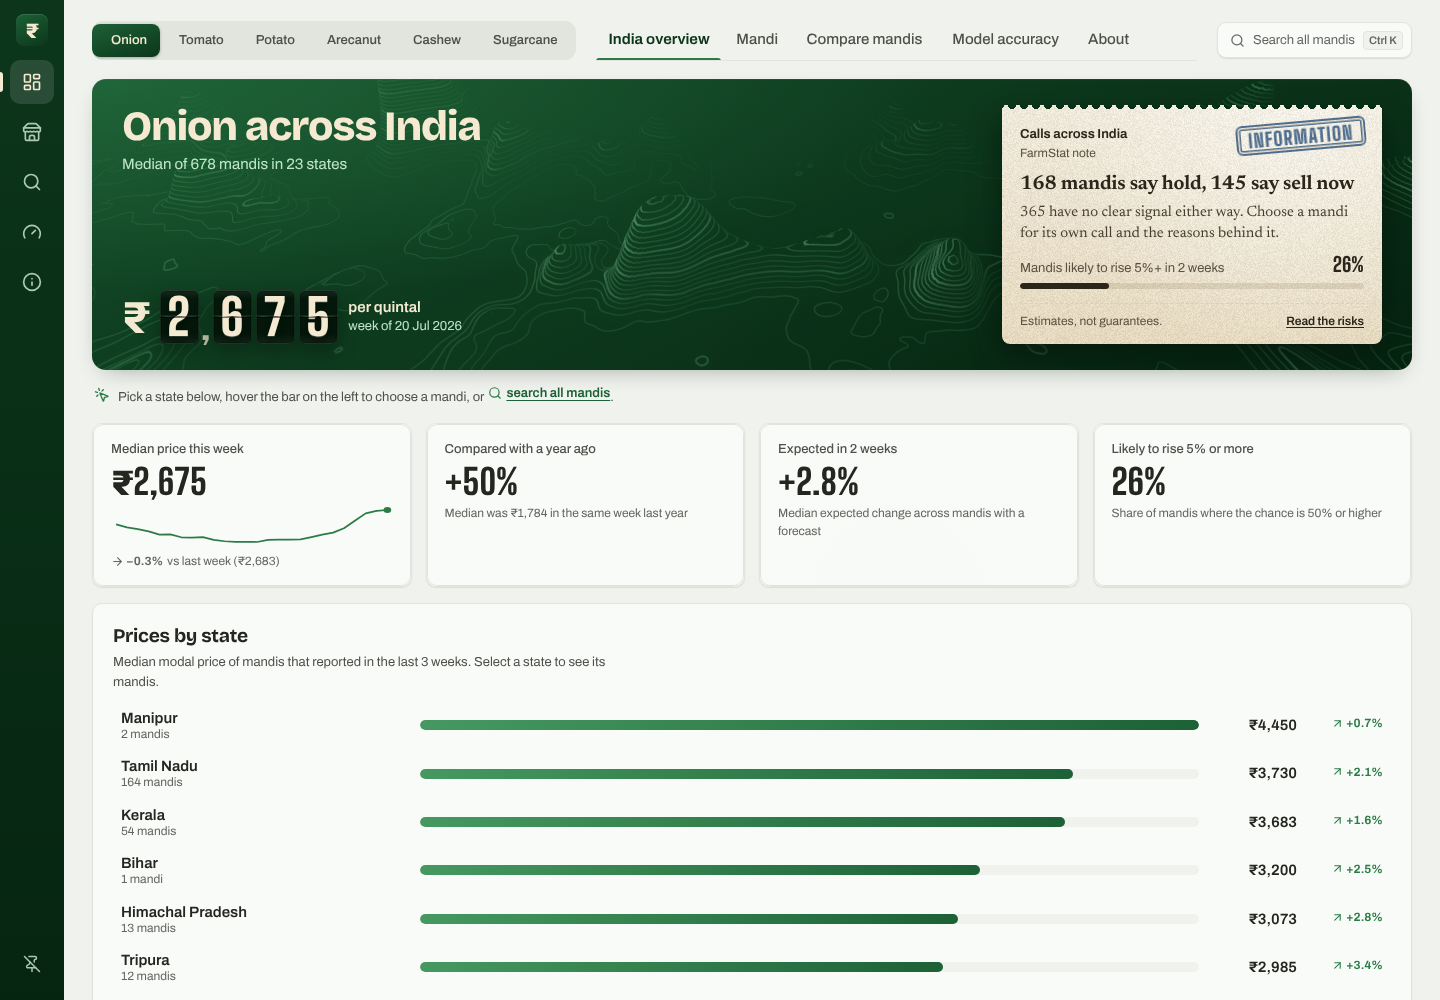
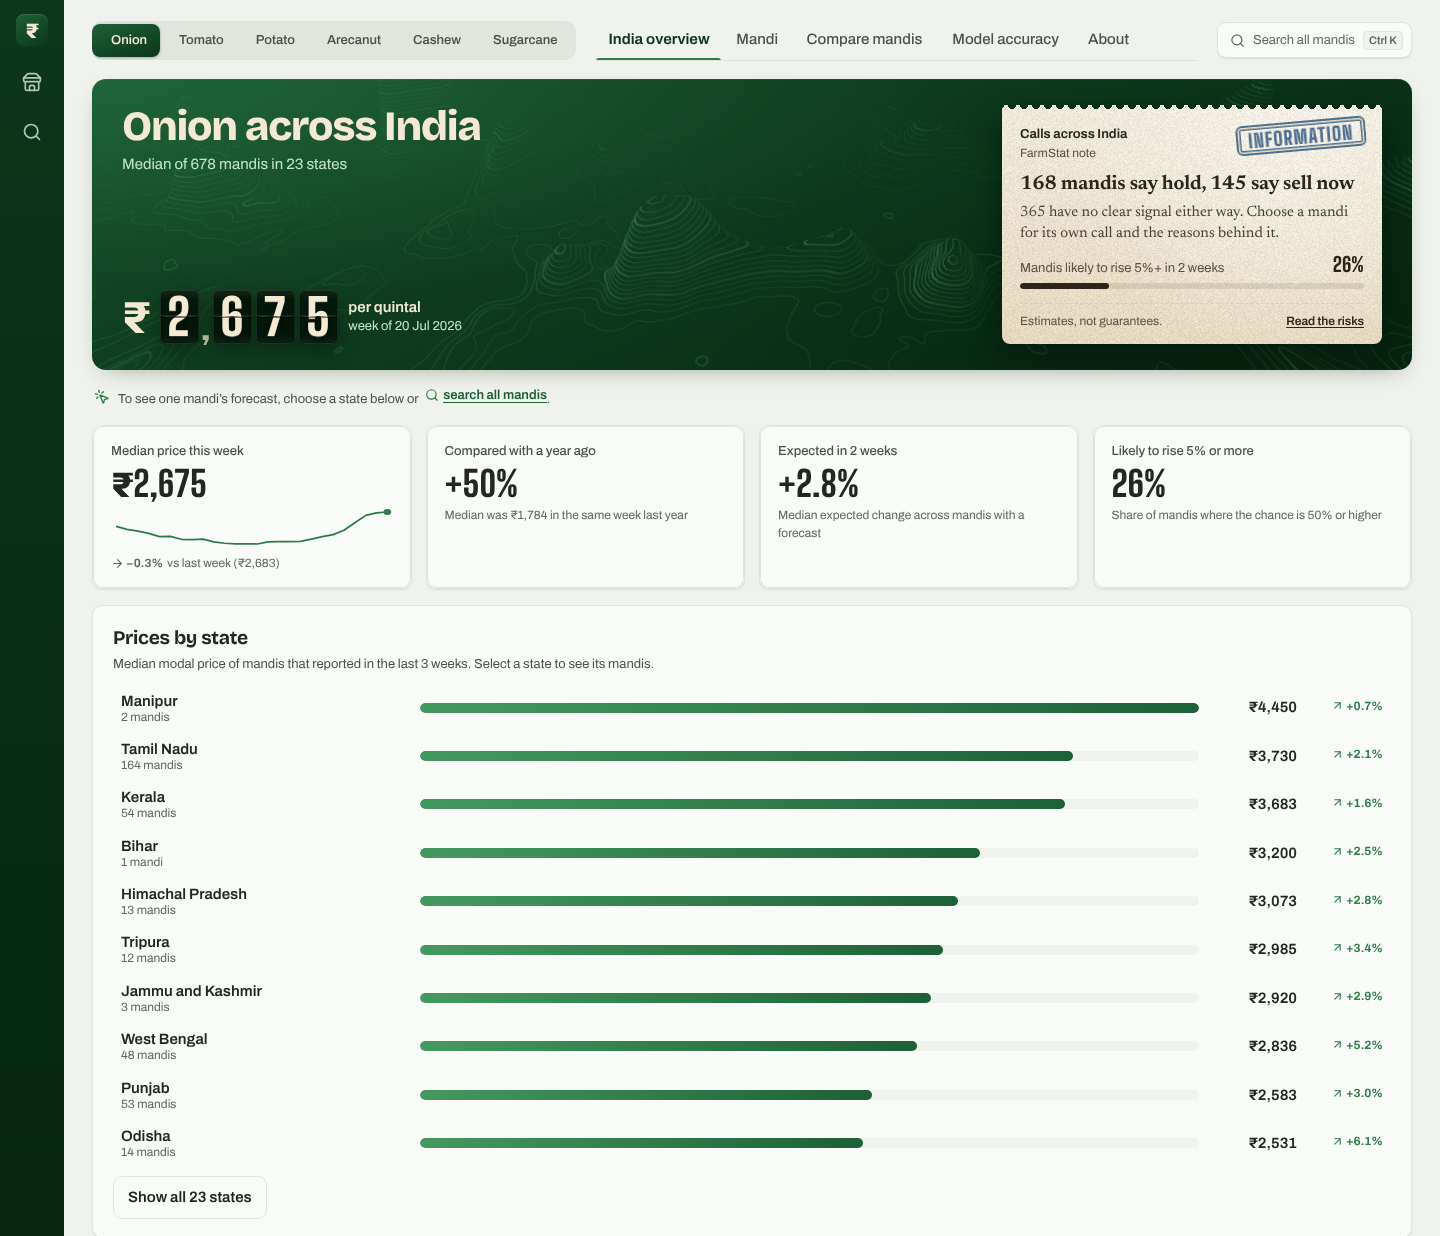
Docs: update README for the latest UI and code changes
- New first-screen screenshot with the two-button rail
- Features and web app sections describe the trimmed rail, panel
  closing, search cancel, Compare and Cashew changes, tidied mandi
  names, the static contour image and the even page layout
- Change the web app: commit web/dist, and a table of where web code lives
- Tech stack lists Ruff, ESLint and CI; architecture lists /api/overview
- Tech debt register notes the web cleanup

diff --git a/README.md b/README.md
@@ -3,7 +3,7 @@
 Forecasts onion, tomato and potato prices in mandis across 24 Indian states, 1, 2 and 4 weeks ahead, tells the farmer whether to sell now or hold, and also covers arecanut, cashew and sugarcane.
 
 <p align="center">
-  <img src="docs/web-overview.png" width="860" alt="FarmStat first screen: onion across India, with the national rate board, calls, KPIs and prices by state">
+  <img src="docs/web-overview.png" width="860" alt="FarmStat first screen: onion across India, with the national rate board, the calls slip, KPI cards and prices by state, beside the two-button side rail">
 </p>
 
 ## CONTENTS
@@ -115,20 +115,28 @@ Finding out *when a model doesn't help*, and saying so, is part of the result.
   Every row is a way in: a state opens its mandi list, a mandi opens its page
 - Pick a crop, a **state** and a **mandi** to see this week's price, the 1/2/4-week forecast and two years of history
   with the forecast range
-- **A side panel that stays out of the way:** on desktop a slim icon rail with just two buttons, the mandi list and search (pages live in the tabs),
-  sits on the left; hovering or focusing it slides out the state picker and mandi list over the page, and the pin
-  button docks it. Ported from a 21st.dev rail-panel sidebar (hover peek with a grace period, Escape and click-outside
-  to close, a sliding active marker, arrow keys). On phones it is a "Choose a mandi" drop-down under the header
+- **A side panel that stays out of the way:** on desktop a slim rail on the left holds just two buttons: the side panel
+  and search (pages are switched with the tabs at the top). Resting the pointer on the rail slides out the state
+  picker and mandi list; passing over it does nothing. The panel closes when the pointer leaves, on a click outside,
+  with <kbd>Esc</kbd> or with its close button, and the pin button docks it beside the page. For cashew the panel lists
+  states, and for sugarcane it explains the FRP. Ported from a 21st.dev rail-panel sidebar. On phones it is a
+  "Choose a mandi" drop-down under the header
 - Sell / hold advice that subtracts storage losses (onion 4%, potato 3%, tomato 15% per 4 weeks)
 - Never advises holding tomatoes for more than a week, because they spoil
 - Shows the money involved for your quantity in quintals
 - Arrivals chart for every mandi
-- Compare tab with every mandi in the chosen state, the median price in each state, and the highest-paying mandis in India
+- **Compare tab:** the spread of prices across the chosen state's mandis (select a dot to highlight a mandi), a sortable
+  table of every mandi whose names open that mandi's page, the median price in each state with the chosen state
+  darker, and the highest-paying mandis in India. With no mandi chosen it names the top-paying mandi and the state median
 - Warning on mandis with less than 3 years of history
 - Accuracy tab with the test results, so users can see how far to trust the forecasts
 - **Arecanut:** every mandi and variety (Rashi, Chali, Bette…), compared only with the same variety
-- **Cashew page:** monthly state price, rough-guide forecast with range, seasonal pattern, all-state comparison
-- **Sugarcane page:** current FRP with the recovery premium rules, and the price history
+- **Cashew page:** opens on every state's latest price, the seasonal pattern and a note that kernels cost several times
+  more than raw nuts; states whose data is out of date are flagged. A state adds its price history and a rough-guide
+  forecast with range
+- **Sugarcane page:** current FRP with the recovery premium rules, and the mandi price against the FRP
+- **Readable mandi names:** Agmarknet names like `Junnar(Alephata)` are shown as "Junnar (Alephata)"; links and
+  searches keep the original name
 
 ## WEB APP
 
@@ -144,14 +152,16 @@ FastAPI service that serves the models.
 - **Search anywhere** (<kbd>Ctrl</kbd>/<kbd>⌘</kbd> <kbd>K</kbd>): one box that finds any of the ~1,400 mandi series in
   India by mandi, district, state or crop, every word matched (`kolar tom` = tomato mandis in Kolar), plus pages; ported
   from a [21st.dev](https://21st.dev) command-palette component, restyled with FarmStat's tokens and animated with CSS.
-  The palette code and the mandi index (18 kB compressed) load the first time it opens
+  It has a clear button and a Cancel button. The palette code and the mandi index (18 kB compressed) load the first
+  time it opens
 - **Tabs with a sliding indicator** for views and chart ranges, ported from a 21st.dev tabs component (arrow, Home and
   End keys, roving focus)
 - **Searchable mandi list** with a 12-week sparkline and expected change for every mandi, sortable by name, price or outlook
 - **Price chart:** history with a soft wash, a shaded forecast zone with the median and likely range, a band showing the
   usual price for the season (10th to 90th percentile of the same weeks in the past 5 years), labelled latest and 4-week
   prices, round axis values, 3M / 6M / 1Y / 2Y / 5Y ranges, an optional "same weeks last year" line, gaps in reporting
-  shaded and labelled instead of bridged, and a table view of the same numbers
+  shaded and labelled instead of bridged, and a table view of the same numbers. The range and display controls sit on
+  one row and the legend on its own quieter row below
 - **Live daily reports:** for every mandi in the live feed, the latest report and its date, that day's lowest-to-highest
   lot, the change since the previous report, and a chart of the last 45 days; a "Live" chip on the rate board and the
   feed's freshness in the sidebar
@@ -159,18 +169,23 @@ FastAPI service that serves the models.
   prices moved in the same 4 weeks of past years, the seasonal pattern by month, and the distribution of the last 3 years
 - **Arrivals chart** under the price chart on the same time axis, with hover synced between the two and heavier-than-usual
   weeks shaded darker
-- **More charts:** state medians, cashew seasonality, and sugarcane price vs FRP, all with hover tooltips
+- **More charts:** state medians, cashew seasonality, and sugarcane price vs FRP (axis in round ₹50 steps), all with
+  hover tooltips
 - **About page:** overview, method, how to read the advice, data and updates, accuracy, a risk table, terms of use,
   disclaimer, privacy, licences and contact, with a section rail (*LineSidebar*) that follows your reading
 - **Colour:** forest-green and neutral ramps graded in OKLCH, so each step looks evenly lighter or darker; every text
   colour passes WCAG AA, and the chart pair (blue forecast, orange fall) is checked for colour-blind separation
 - **Type, one face per job:** Bricolage Grotesque for headlines, Archivo for the interface and tables, Big Shoulders Display
   for big numbers and the rate board, Newsreader for the paper slip and the About page
-- **Fast:** each page loads its own code, the charting library loads in parallel with the board, the contour map is drawn
-  once in WebGL and kept as an image, the API compresses JSON (32 kB to 7 kB for a mandi list) and the built files are
-  cached for a year. The first screen needs 86 kB of compressed JavaScript and shows the board in about half a second
+- **Fast:** each page loads its own code, the charting library loads in parallel with the board, and the contour map
+  is a 32 KB image rendered once ahead of time, so no WebGL runs in the browser and the page never stalls after loading.
+  The API compresses JSON (32 kB to 7 kB for a mandi list) and the built files are cached for a year. The first screen
+  needs about 90 kB of compressed JavaScript and shows the board in about half a second
+- **Even layout:** every page is one vertical stack with a single gap, so cards in a row line up and side-by-side
+  cards are the same height
 - **Responsive:** on phones the mandi list folds into a drop-down under the header, crop and tab rows scroll sideways,
-  charts use tighter margins, and wide tables scroll inside their panel
+  charts use tighter margins, the Compare table folds the district under the mandi name, and wide tables scroll inside
+  their panel
 - **Small things:** a one-time notice that prices are estimates, links to the terms and risks from every page,
   <kbd>/</kbd> to search mandis, loading skeletons, and a skip link for keyboard users
 - **Links you can share:** the crop, state, mandi, tab and About section are kept in the address bar
@@ -267,7 +282,7 @@ flowchart TB
     M[Saved models] --> J
     J --> FC[Expected price + likely range for 1, 2, 4 weeks<br/>chance of 5%+ rise, sell / hold after storage losses]
     FC --> S[(models/web_snapshot.json.gz)]
-    S --> API[FastAPI: api/service.py<br/>/api/meta, mandis, series, national, index, accuracy]
+    S --> API[FastAPI: api/service.py<br/>/api/meta, overview, mandis, series, national, index, accuracy]
     L[(Supabase daily_prices)] --> API2[/api/live/]
     API --> APP[React web app]
     API2 --> APP
@@ -297,7 +312,7 @@ flowchart TB
 | Simple app | Streamlit, Plotly |
 | Live data | data.gov.in API, Supabase (Postgres, Edge Functions, pg_cron, pg_net), GitHub Actions |
 | Hosting | Vercel (FastAPI, Python 3.12) |
-| Tests | pytest |
+| Checks | pytest, Ruff, ESLint (React and hooks rules, zero warnings), GitHub Actions CI |
 
 ## GETTING STARTED
 
@@ -336,6 +351,24 @@ npm run lint         # ESLint (CI fails on any warning)
 npm run build        # writes web/dist, which the API serves
 ```
 
+Vercel serves the committed `web/dist`, so **commit the rebuilt `web/dist` with every change to `web/src`**; CI fails
+if they don't match.
+
+How the web code is organised:
+
+| Where | What goes there |
+|---|---|
+| `App.jsx` | Crop, state, mandi and page choice, the address bar, and one `page()` switch that picks the view |
+| `components/*View.jsx` | One file per page (overview, mandi, compare, accuracy, cashew, sugarcane, about) |
+| `components/Sidebar.jsx`, `Chrome.jsx` | The side panels for each crop, and the rail, hover panel and notice they sit in |
+| `components/ui/` | Ported 21st.dev components (command palette, tabs) |
+| `components/reactbits/` | React Bits components |
+| `hooks.js` | `useMedia`, `useNarrow`, `useDesktop`, `useScrollEnd`, `useAppEvent` |
+| `events.js` | `openSearch()` and `openSidePanel()`, callable from any component |
+| `storage.js` | Settings kept in the browser (pinned panel, notice seen) |
+| `api.js`, `format.js`, `stats.js`, `theme.js` | API calls, number and name formatting, small statistics, chart colours |
+| `styles.css` | Design tokens and all styles. Pages are a `.page` stack, so blocks don't set their own outer margins |
+
 ### RETRAIN THE MODEL
 
 ```bash
@@ -365,7 +398,9 @@ detects FastAPI, installs `requirements.txt` and runs `index.py`, which serves b
 
 - The bundle is about 125 MB, well under Vercel's limit, because the deployed app reads the saved forecast snapshot
   and doesn't install scikit-learn. Keep `requirements.txt` lean; add local-only packages to `requirements-full.txt`.
-- `.vercelignore` leaves the notebooks, docs, tests and web source out of the upload.
+- `.vercelignore` leaves the notebooks, docs, tests and web source out of the upload, so the web app must be built and
+  committed (`web/dist`) before pushing.
+- [docs/DEPLOY_CHECKLIST.md](docs/DEPLOY_CHECKLIST.md) lists the checks to run before and after a release.
 - After retraining or updating the data, run `python scripts/build_snapshot.py` and commit the new snapshot,
   otherwise the deployed app can't build forecasts (Vercel's disk is read-only and it has no scikit-learn).
 
@@ -376,7 +411,8 @@ index.py                            entry point for Vercel (imports api.main:app
 api/main.py                         FastAPI app: JSON endpoints + serves the web app
 api/service.py                      reads the forecast snapshot, price history and comparisons
 api/livefeed.py                     read-only live daily prices and feed status from Supabase
-web/src/                            React app (components/reactbits = React Bits components)
+web/src/                            React app (see "Change the web app" for its layout)
+web/eslint.config.js                ESLint rules for the web app
 web/dist/                           built web app
 streamlit_app.py                    Streamlit app (simpler alternative)
 src/farmstat/data.py                load and clean the weekly prices

diff --git a/docs/TECH_DEBT.md b/docs/TECH_DEBT.md
@@ -49,8 +49,8 @@ bigger number means fix sooner. Items fixed in this review are listed at the end
    training). The weekly retrain changes the model but keeps the old shifts. They are small and stable (the 4-week low end
    moves about 11% in log terms), so the risk is low. *Fix:* re-run `evaluate.py` and `calibrate_ranges.py` monthly, or
    after any model change, in a scheduled workflow.
-10. **App state.** Crop, state, mandi, view and the address bar are kept in step by five effects in `App.jsx`. It works
-    and is tested by hand, but each new screen adds a case. *Fix:* move it into a `useNavigation()` hook backed by the
+10. **App state.** Crop, state, mandi, view and the address bar are kept in step by five effects in `App.jsx`. Choosing
+    the page is now one readable `page()` switch, but the effects remain and each new screen adds a case. *Fix:* move it into a `useNavigation()` hook backed by the
     URL, with unit tests for the transitions (crop change, mandi missing for a crop, deep links).
 11. **Large files in git.** The weekly data (5.3 MB), the models (3 MB) and the daily job's commits grow the history.
     *Fix:* Git LFS for `data/` and `models/`, or keep only the latest data in the repo and the history in Supabase.
@@ -78,3 +78,7 @@ bigger number means fix sooner. Items fixed in this review are listed at the end
   learned from three out-of-sample years). Coverage across 2023–2026 is 80–81% at every horizon, against 67–79% before.
 - **Repo hygiene:** removed 13 screenshots the README no longer uses, fixed all ruff findings, and made the
   Streamlit `zip()` calls strict.
+- **Web code cleanup (November 2026):** ESLint added (`npm run lint`, zero warnings, run in CI); duplicated
+  screen-size, browser-storage and event code moved into `hooks.js`, `storage.js` and `events.js`; inline spacing
+  replaced by one `.page` stack; the WebGL contour background replaced by a pre-rendered image, removing two ~1.5 s
+  main-thread stalls after load.
